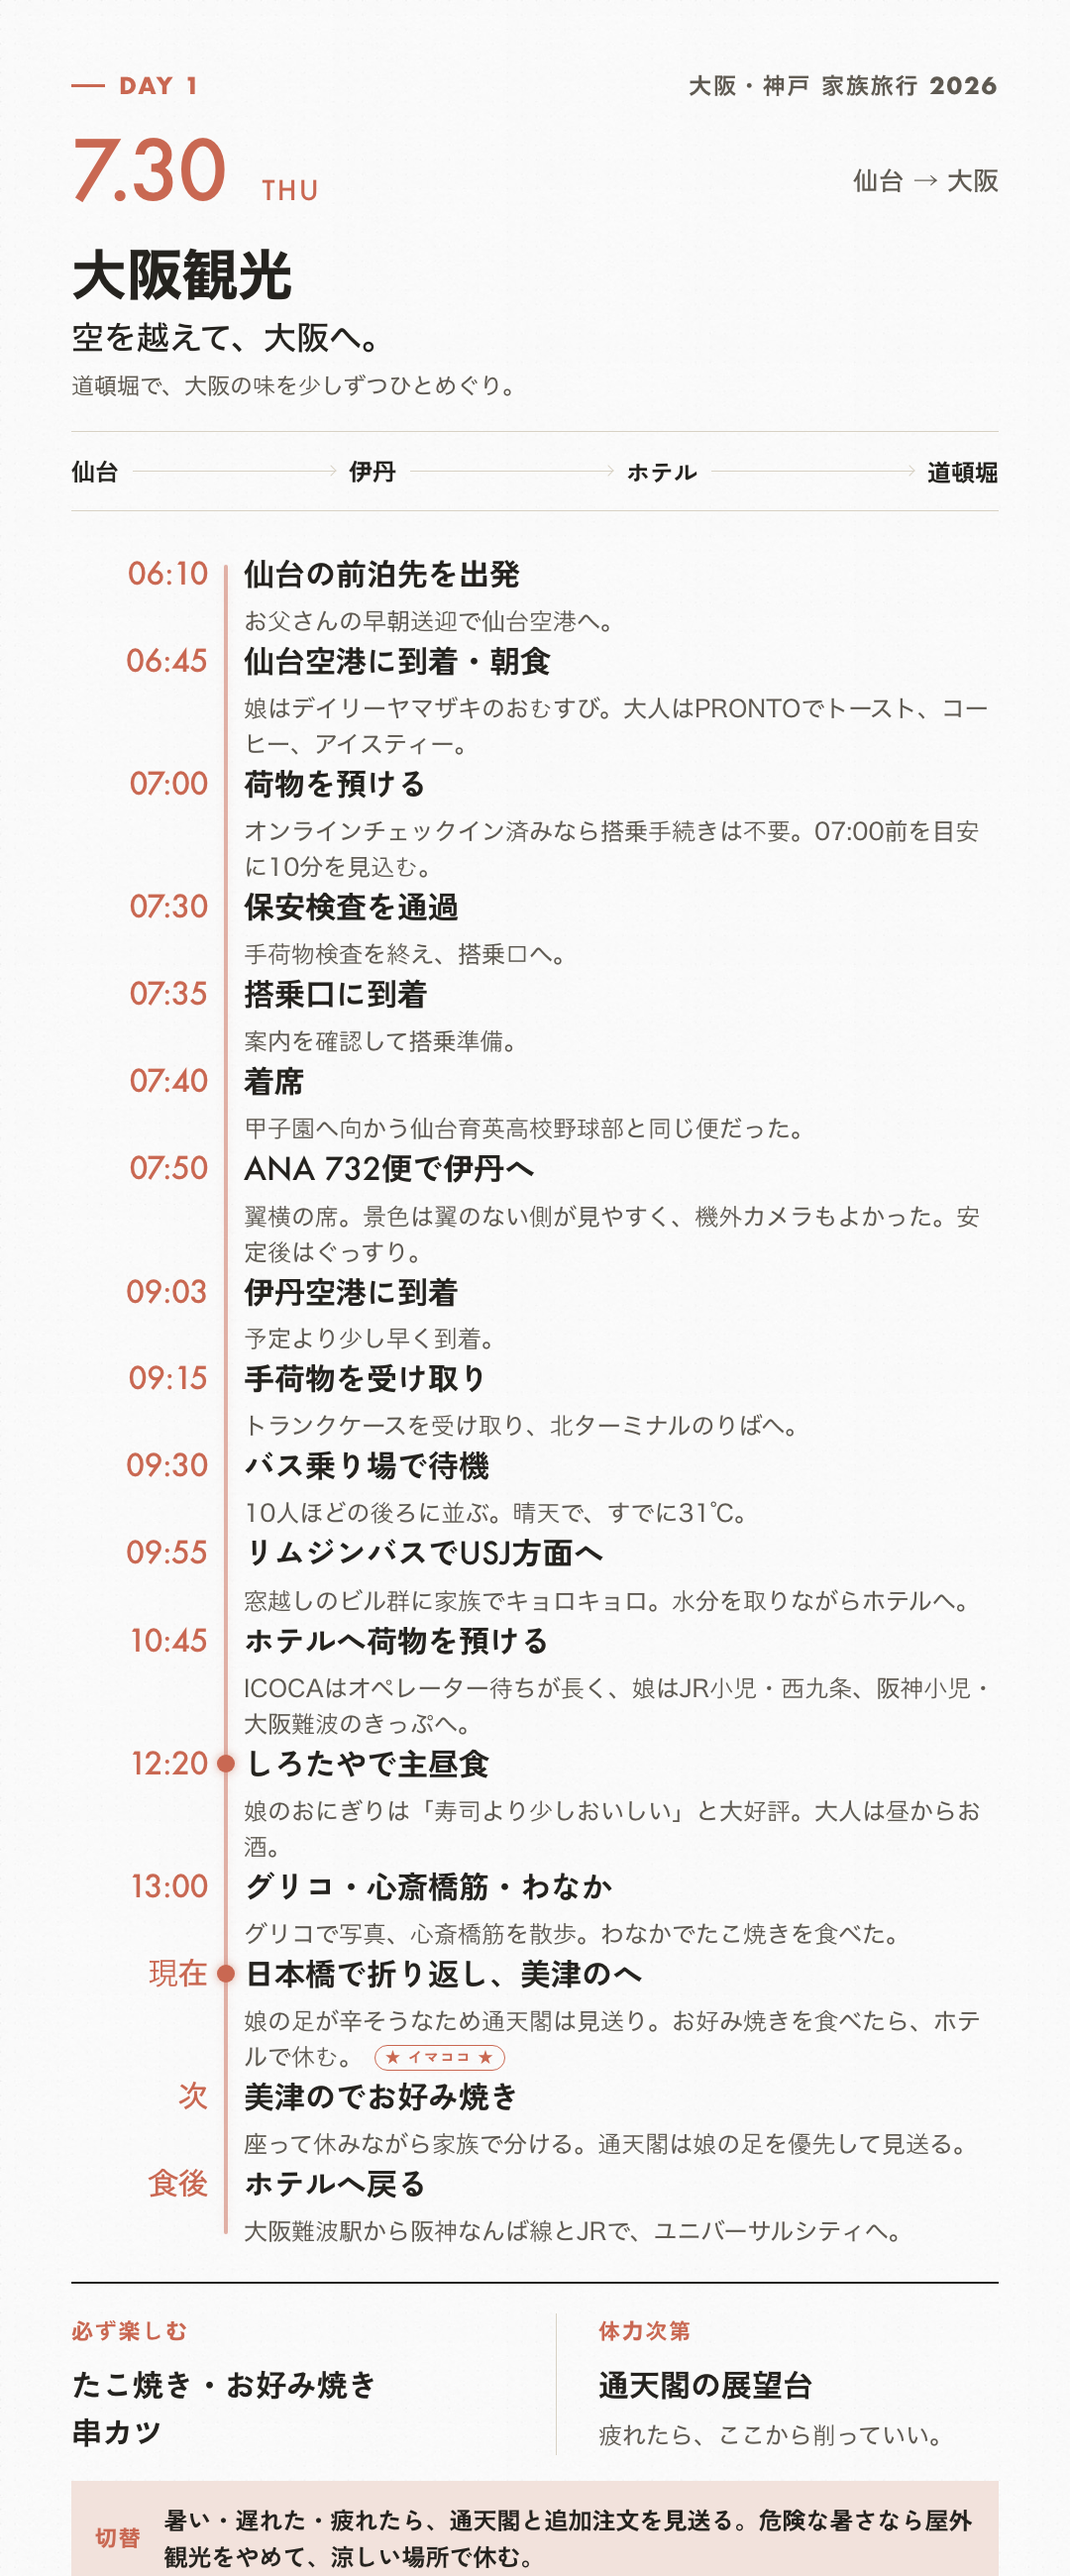
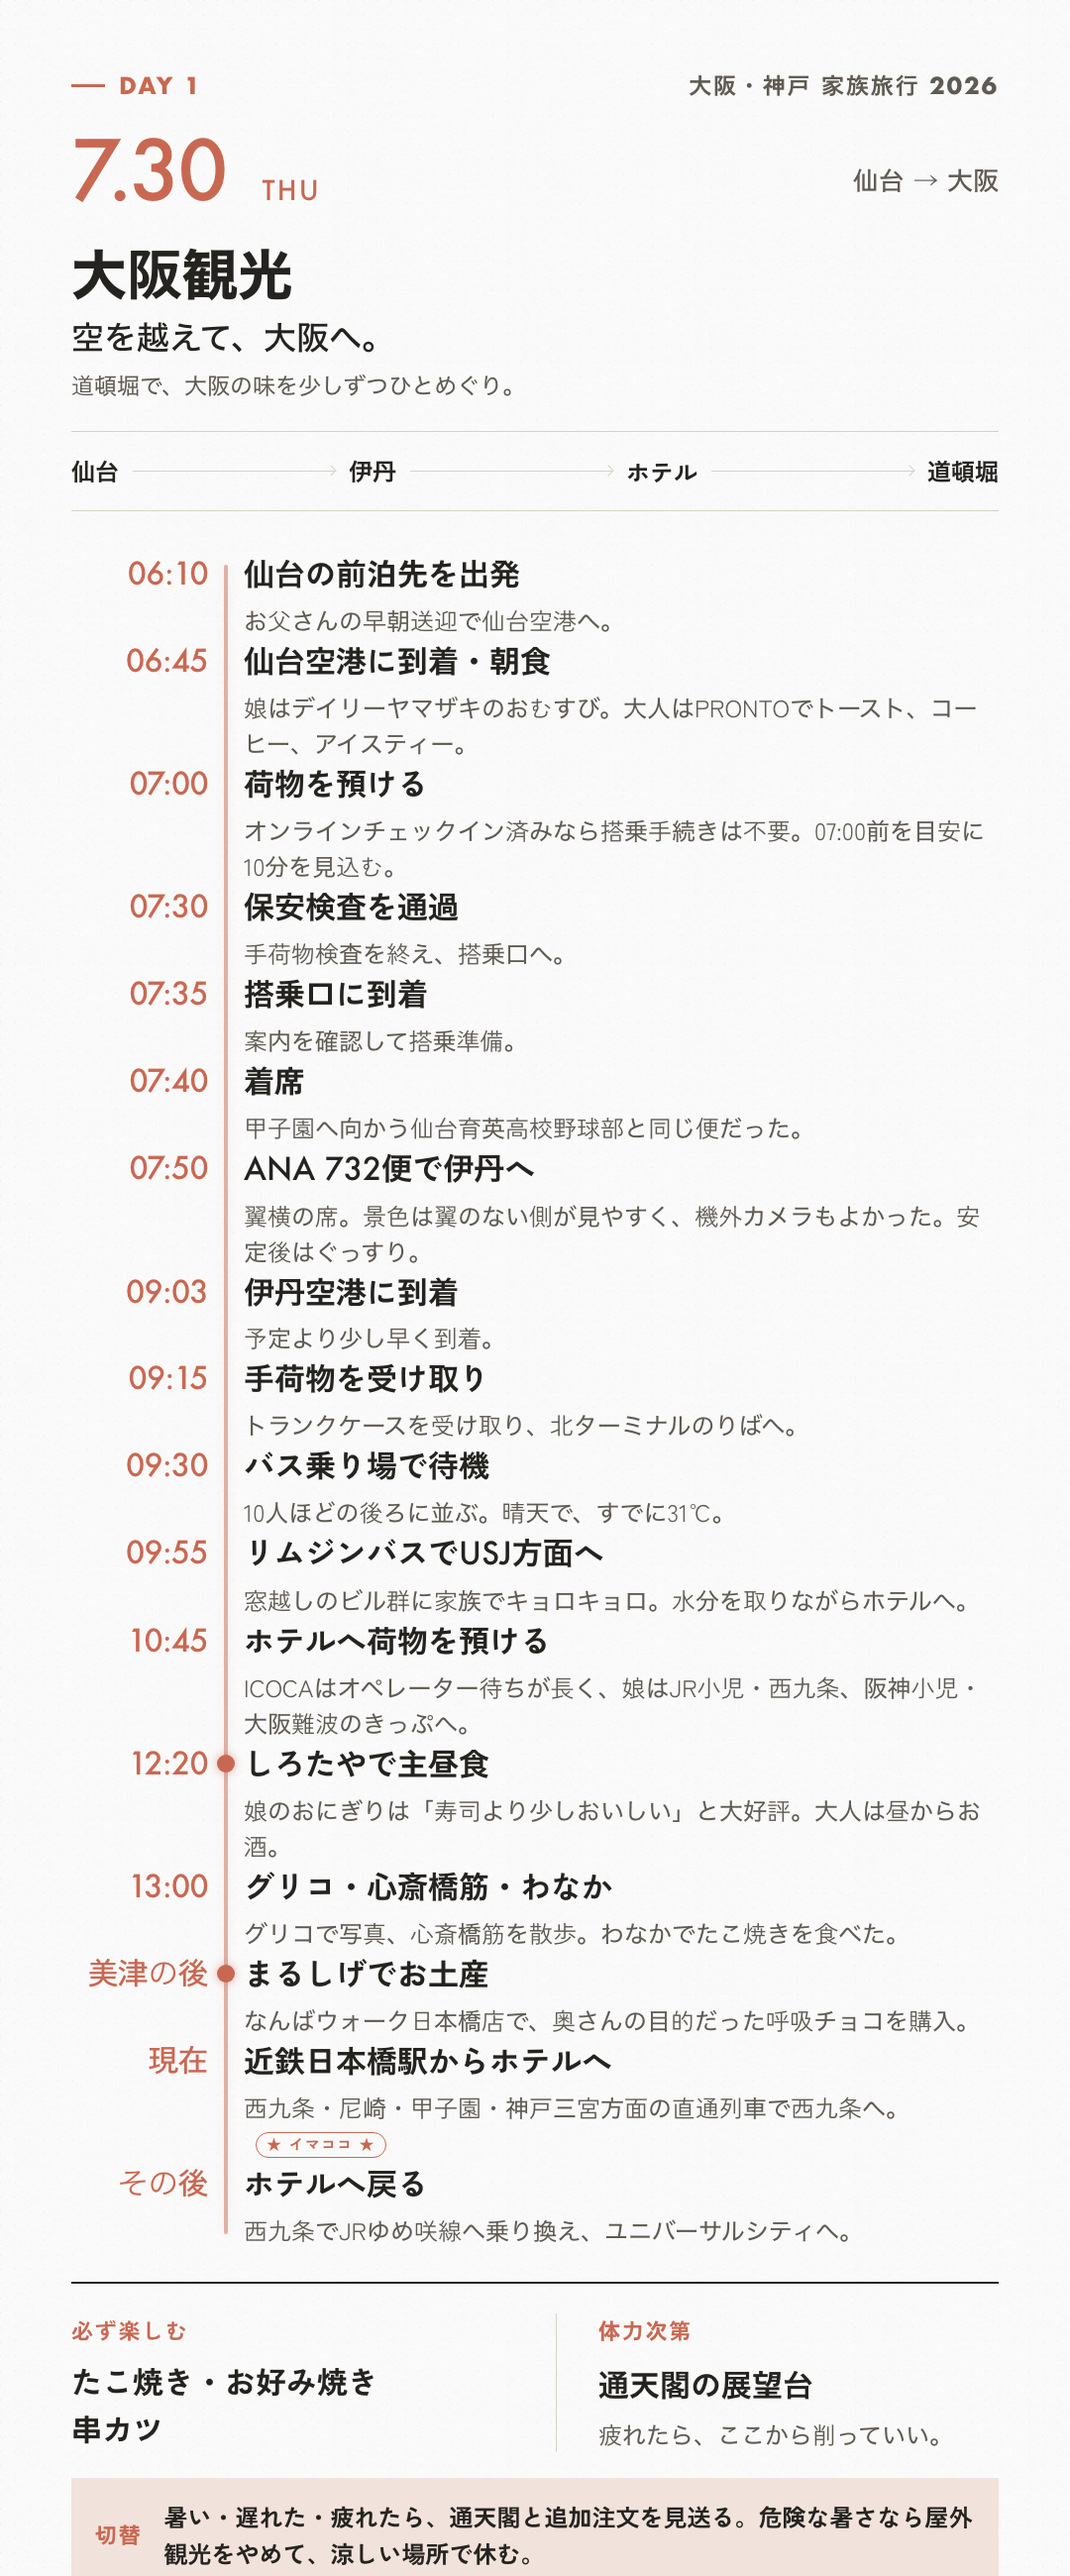
Record Kokyu Choco souvenir stop

diff --git a/docs/trip-plan.html b/docs/trip-plan.html
@@ -228,24 +228,24 @@
               </div>
             </div>
             <div class="timeline__item">
+              <time>美津の後</time>
+              <div>
+                <h3>まるしげでお土産</h3>
+                <p>なんばウォーク日本橋店で、奥さんの目的だった呼吸チョコを購入。</p>
+              </div>
+            </div>
+            <div class="timeline__item">
               <time>現在</time>
               <div>
-                <h3>日本橋で折り返し、美津のへ <span class="now-marker">★ イマココ ★</span></h3>
-                <p>娘の足が辛そうなため通天閣は見送り。お好み焼きを食べたら、ホテルで休む。</p>
+                <h3>近鉄日本橋駅からホテルへ <span class="now-marker">★ イマココ ★</span></h3>
+                <p>西九条・尼崎・甲子園・神戸三宮方面の直通列車で西九条へ。大阪難波まで歩かず、ホテルで休む。</p>
               </div>
             </div>
             <div class="timeline__item">
-              <time>次</time>
-              <div>
-                <h3>美津のでお好み焼き</h3>
-                <p>座って休みながら、お好み焼きを家族で分ける。通天閣は娘の足を優先して見送る。</p>
-              </div>
-            </div>
-            <div class="timeline__item">
-              <time>食後</time>
+              <time>その後</time>
               <div>
                 <h3>ホテルへ戻る</h3>
-                <p>大阪難波駅から阪神なんば線とJRでユニバーサルシティへ。部屋でしっかり休む。</p>
+                <p>西九条でJRゆめ咲線へ乗り換え、ユニバーサルシティへ。部屋でしっかり休む。</p>
               </div>
             </div>
           </div>
